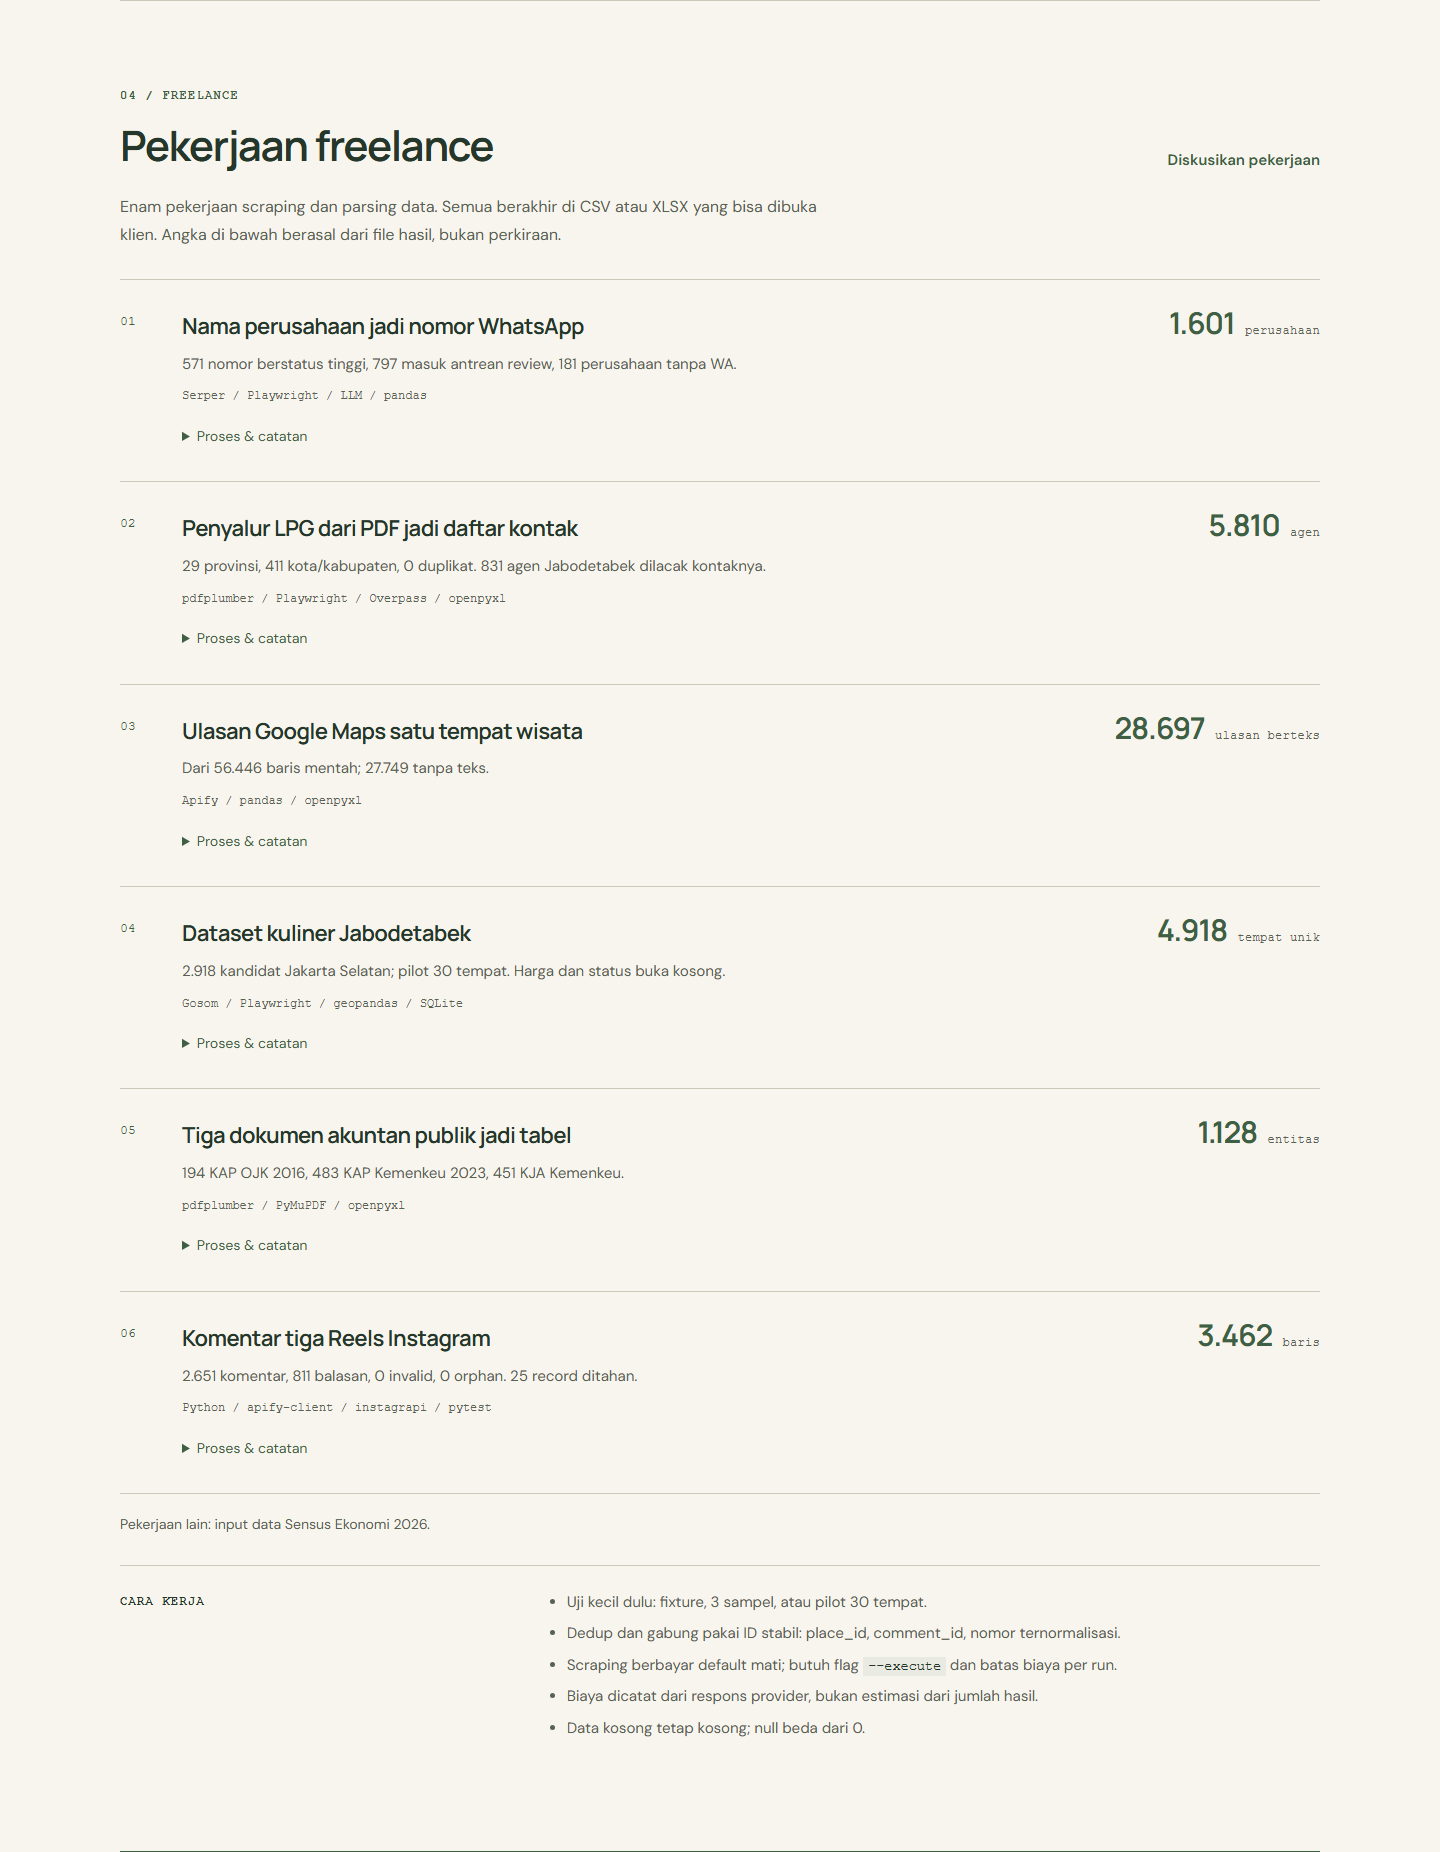
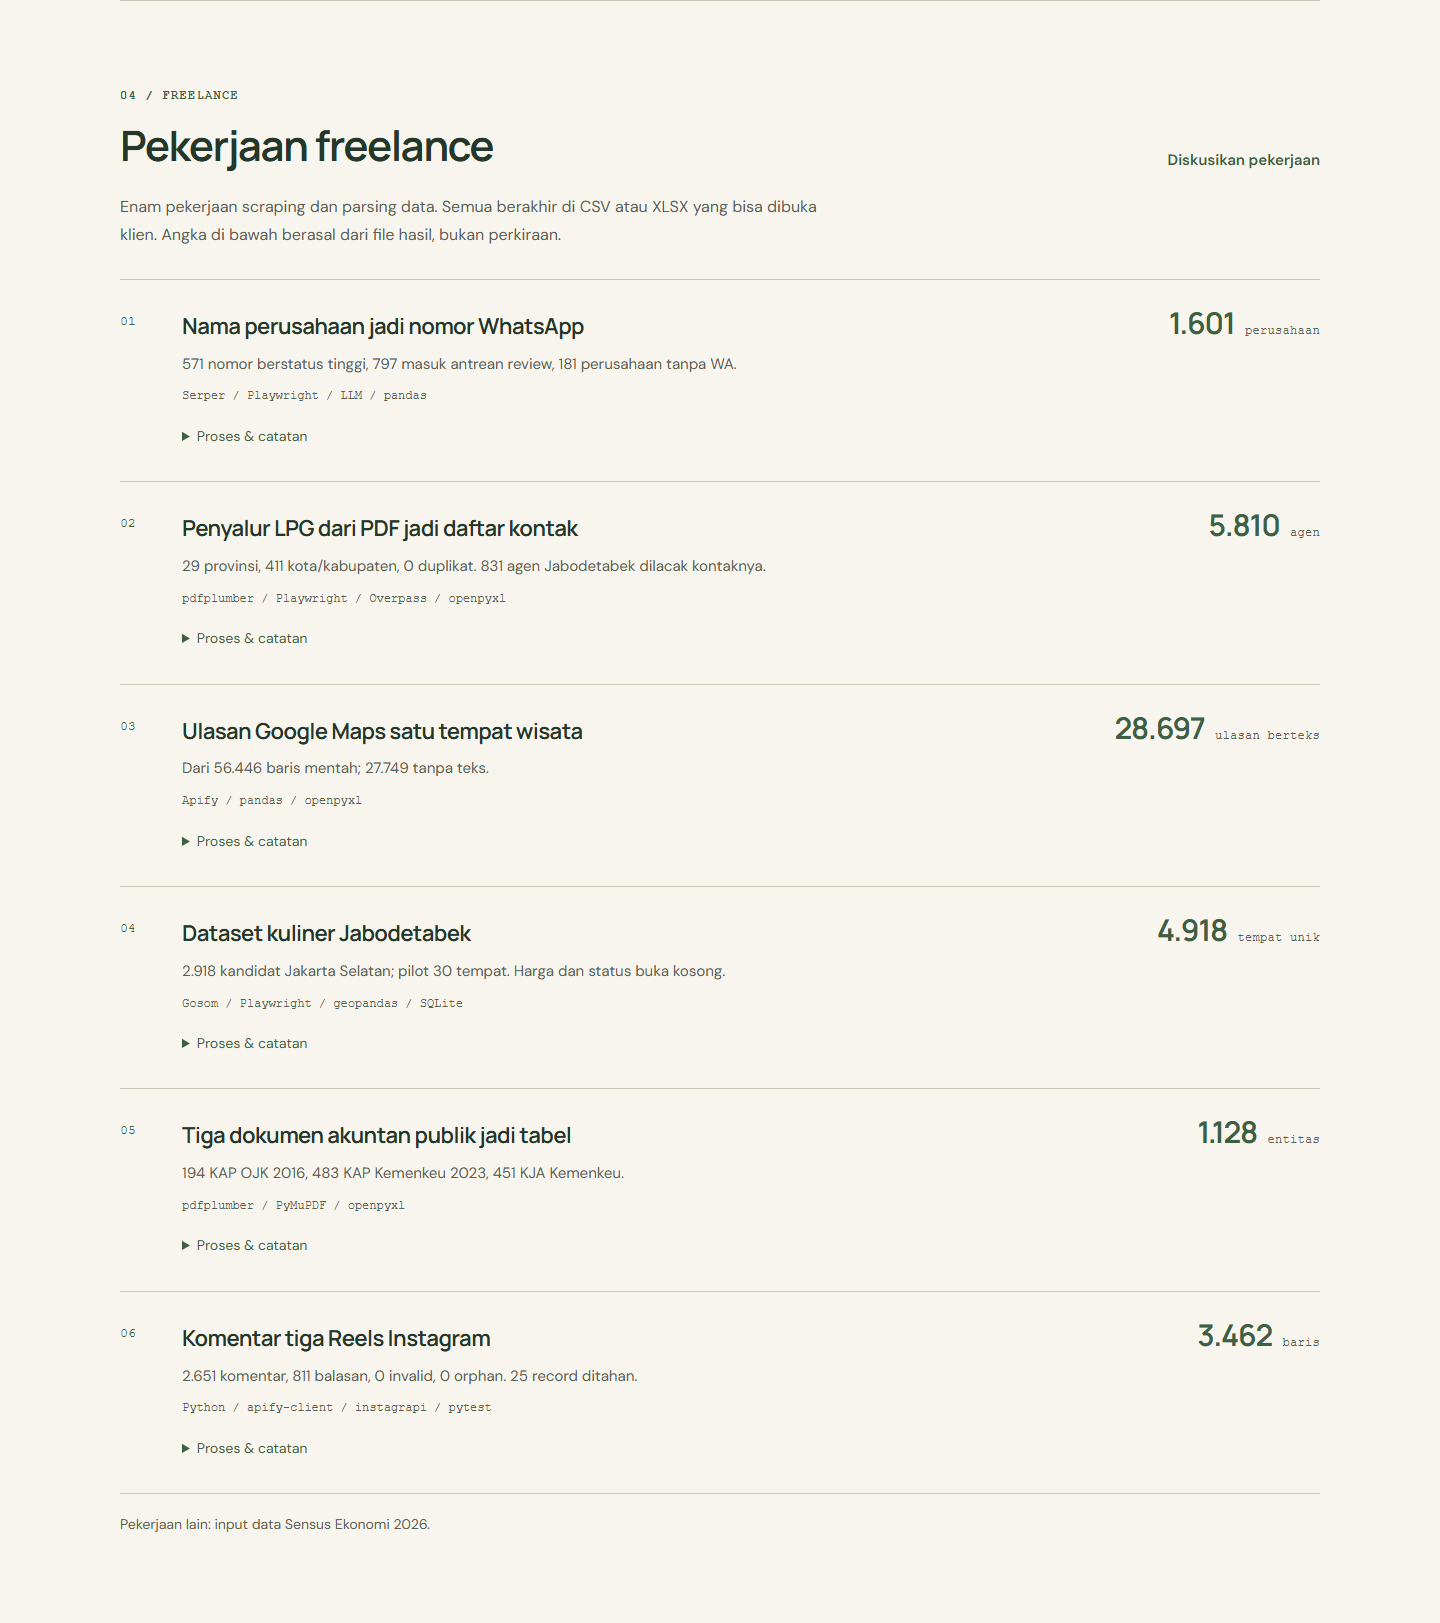
Remove freelance work-principles block
Drop the CARA KERJA list and its unused CSS; keep the six project rows and the census footnote.

diff --git a/assets/style.css b/assets/style.css
@@ -73,11 +73,6 @@ nav a { padding-block: 10px; }
 .freelance-detail { margin-top: 14px; padding-top: 14px; border-top: 1px solid var(--line); color: var(--muted); font-size: 15px; line-height: 1.75; }
 .freelance-detail p + p { margin-top: 10px; }
 .freelance-other { margin-top: 18px; color: var(--muted); font-size: 14px; }
-.freelance-principles { display: grid; grid-template-columns: 1fr 2fr; gap: 40px; margin-top: 28px; padding-block: 24px; border-top: 1px solid var(--line); }
-.freelance-principles .micro-label { padding-top: 3px; }
-.freelance-principles ul { margin: 0; padding-left: 20px; color: var(--muted); font-size: 15px; line-height: 1.7; }
-.freelance-principles li + li { margin-top: 6px; }
-.freelance-principles code { font: .9em var(--mono); color: var(--ink); background: #3e5f4412; padding: 2px 5px; white-space: nowrap; }
 .section-heading { display: flex; justify-content: space-between; align-items: flex-end; gap: 50px; margin-bottom: 38px; }
 h2 { font-size: clamp(30px, 3vw, 42px); line-height: 1.3; letter-spacing: -1.5px; }
 .section-heading h2 { margin-top: 12px; }
@@ -196,9 +191,6 @@ h2 { font-size: clamp(30px, 3vw, 42px); line-height: 1.3; letter-spacing: -1.5px
   .freelance-note { font-size: 14px; }
   .freelance-tools { font-size: 11px; }
   .freelance-detail { font-size: 14px; }
-  .freelance-principles { grid-template-columns: 1fr; gap: 12px; padding-block: 20px; }
-  .freelance-principles .micro-label { padding-top: 0; }
-  .freelance-principles ul { font-size: 14px; }
   h2 { font-size: 31px; letter-spacing: -1px; }
   .section-description { margin-top: 16px; max-width: 460px; }
   .project-filters { gap: 4px 20px; }

diff --git a/index.html b/index.html
@@ -871,16 +871,6 @@
      </article>
     </div>
     <p class="freelance-other">Pekerjaan lain: input data Sensus Ekonomi 2026.</p>
-    <div class="freelance-principles">
-     <p class="micro-label">CARA KERJA</p>
-     <ul>
-      <li>Uji kecil dulu: fixture, 3 sampel, atau pilot 30 tempat.</li>
-      <li>Dedup dan gabung pakai ID stabil: place_id, comment_id, nomor ternormalisasi.</li>
-      <li>Scraping berbayar default mati; butuh flag <code>--execute</code> dan batas biaya per run.</li>
-      <li>Biaya dicatat dari respons provider, bukan estimasi dari jumlah hasil.</li>
-      <li>Data kosong tetap kosong; null beda dari 0.</li>
-     </ul>
-    </div>
    </section>
    <section aria-labelledby="closing-title" class="closing-section container" id="kontak">
     <div>

diff --git a/anti-slop/freelance-2026-11-17.md b/anti-slop/freelance-2026-11-17.md
@@ -11,7 +11,6 @@ File sumber tidak dipublikasikan dan tidak di-commit.
 - Enam pekerjaan tampil setara sebagai ledger, bukan kartu.
 - Setiap baris punya satu angka utama, satu catatan, alat, dan `details` `Proses & catatan`.
 - `Input data Sensus Ekonomi 2026` tetap sebagai footnote, bukan baris penuh.
-- Lima praktik kerja ditampilkan sebagai blok `Cara kerja`.
 
 ## Data yang tampil
 
@@ -28,7 +27,7 @@ Tidak ada nama klien, industri klien, status berbayar, durasi, tarif, testimoni,
 
 ## Perubahan file
 
-- `index.html`: section freelance diganti ledger enam baris, intro, footnote, dan blok cara kerja.
+- `index.html`: section freelance diganti ledger enam baris, intro, dan footnote.
 - `assets/style.css`: gaya ledger, angka hasil, detail, footnote, dan prinsip kerja. Aturan `freelance-list` dan `freelance-work` yang lama dihapus.
 - Screenshot: `desktop.png`, `mobile-390.png`, `freelance-desktop.png`, `freelance-mobile.png`.
 
